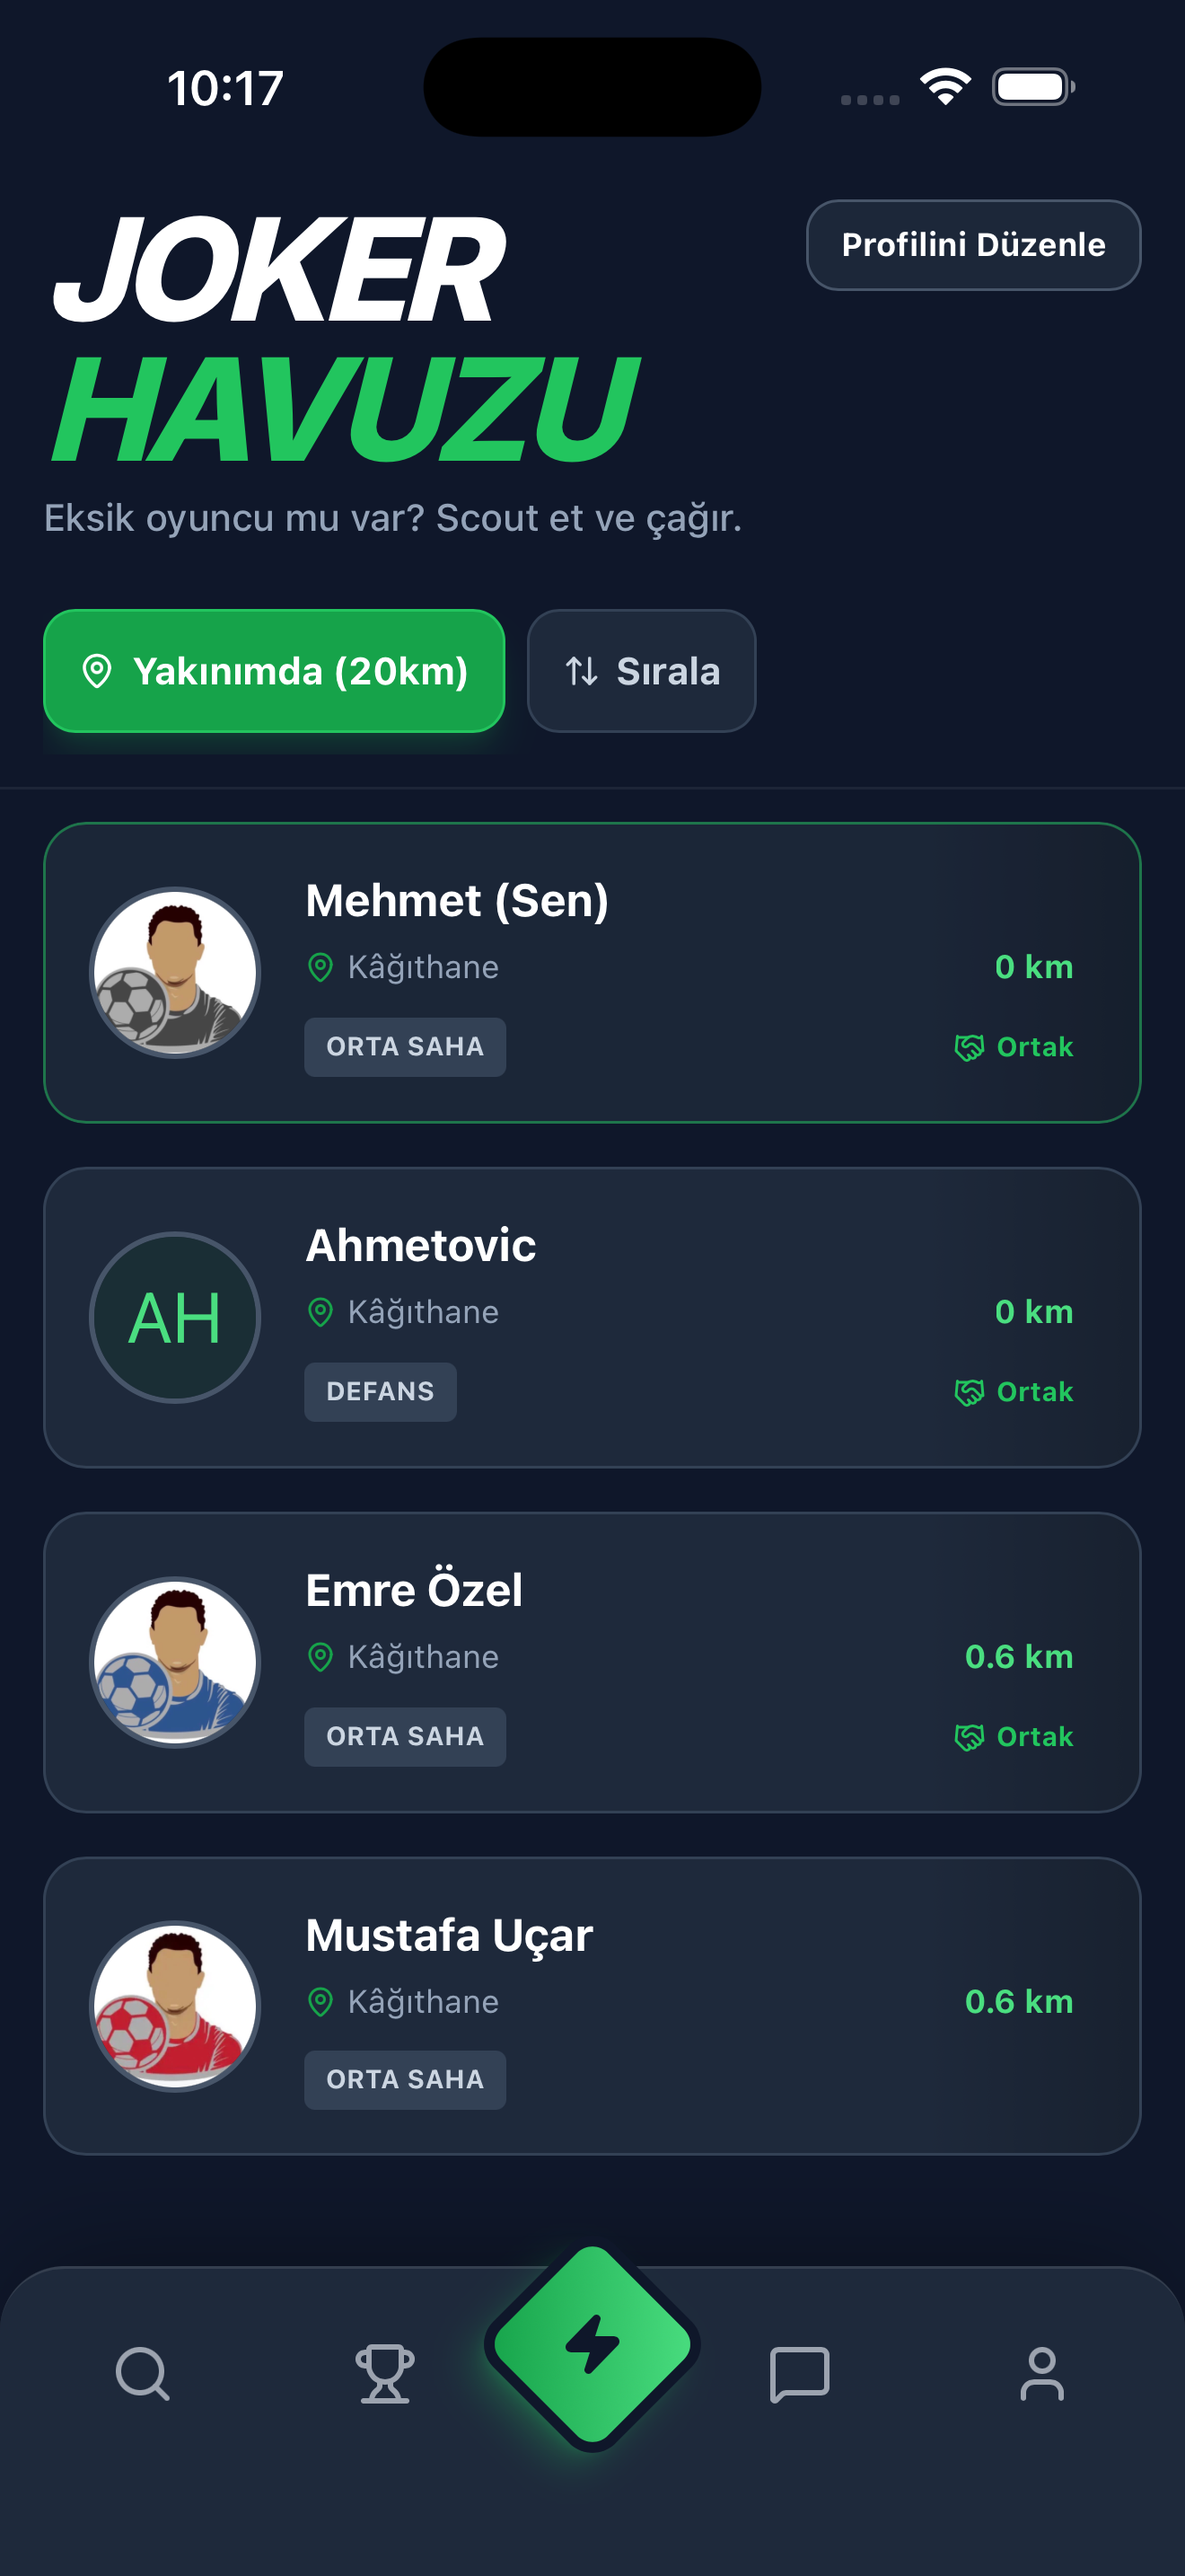
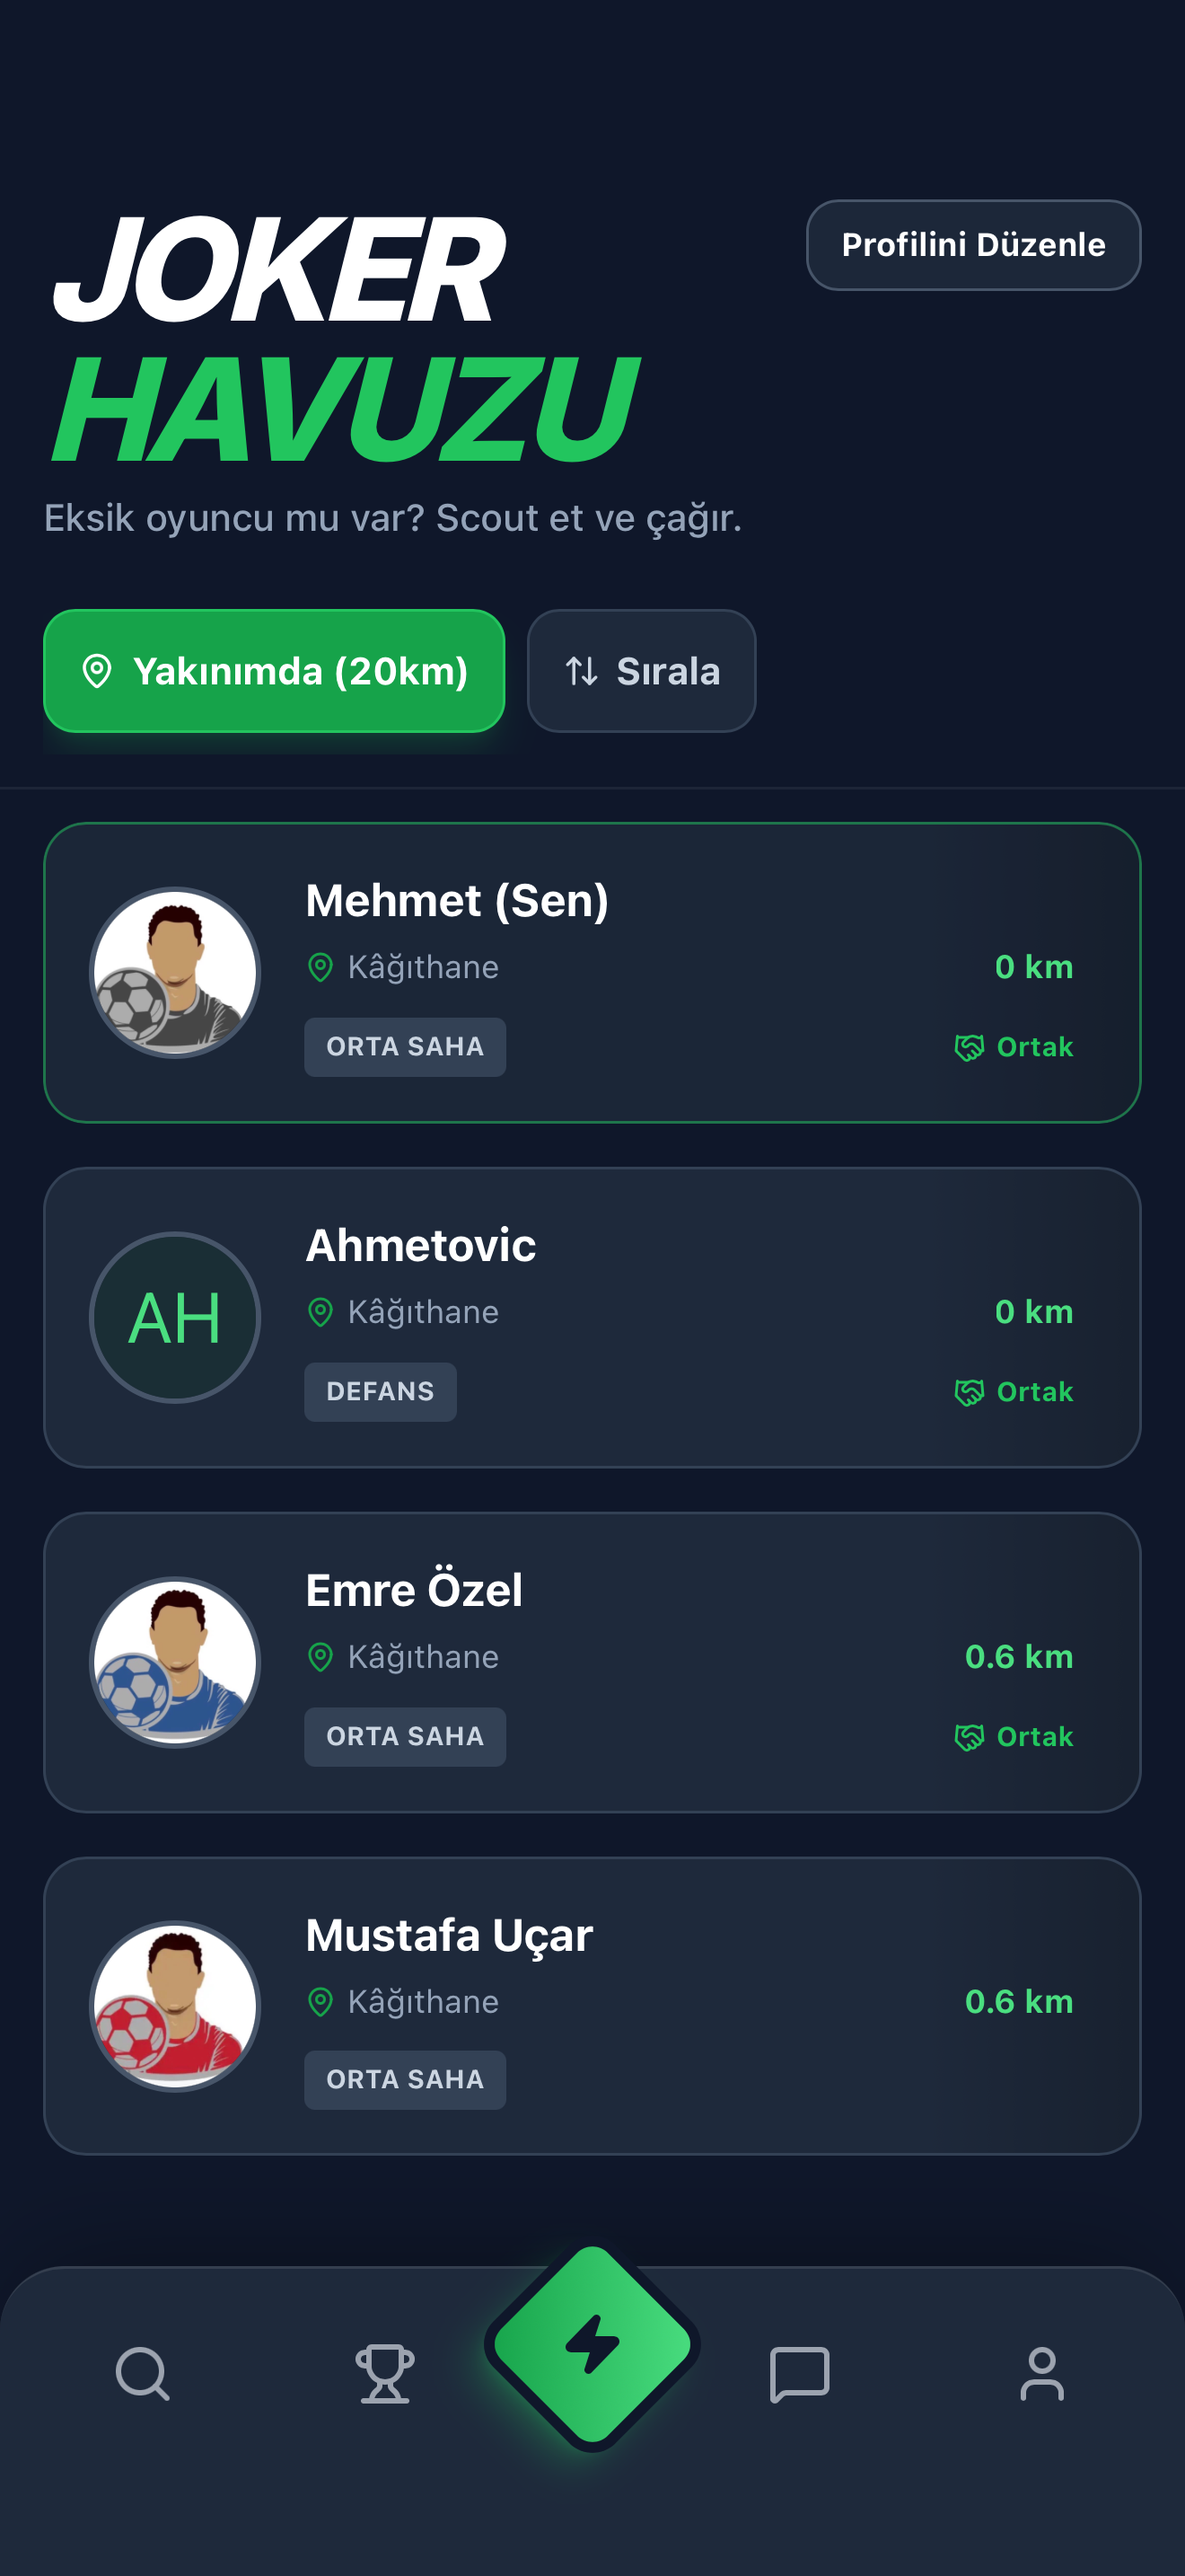
feat(web): oyuncu ekran görüntüleri yenilendi + durum çubuğu temiz, metin revizyonu
- Sahalar ekranı yeni UI; carousel'e Saha Detayı (Maç Pazarı modalı) eklendi
- İşletme puanlama / Fair Play değerlendirme ekranları yeni tasarımla değiştirildi
- Tüm kullanıcı görsellerinde iOS durum çubuğu (saat/pil/wifi) kaldırıldı
  (üst bant zemin rengiyle örtüldü; tam boy png + 640w webp yeniden üretildi)
- "Maç Duyuruları" → "Müsait Saatleri Anlık Gör" (+ canlı takvim açıklaması/kicker)
- "Takımınla Haberleş": her maça özel sohbet odası vurgusu

diff --git a/components/cinematic/playerContent.tsx b/components/cinematic/playerContent.tsx
@@ -7,9 +7,9 @@
 
 export const FEATURES = [
   {
-    title: "Maç Duyuruları",
+    title: "Müsait Saatleri Anlık Gör",
     description:
-      "Kendi maç duyurunu oluştur ya da yakınındaki takımların ilanlarını keşfet. Anlık meydan okuma sistemiyle rakip bul.",
+      "Sahanın boş ve dolu saatlerini canlı takvimde gör, uygun saati seç ve anında rezervasyon yap. Onay durumunu da aynı ekrandan takip et.",
     icon: (
       <svg className="w-7 h-7" fill="none" stroke="currentColor" viewBox="0 0 24 24">
         <path strokeLinecap="round" strokeLinejoin="round" strokeWidth={1.8} d="M8 7V3m8 4V3m-9 8h10M5 21h14a2 2 0 002-2V7a2 2 0 00-2-2H5a2 2 0 00-2 2v12a2 2 0 002 2z" />
@@ -84,7 +84,7 @@ export const STEPS = [
   {
     number: "04",
     title: "Takımınla Haberleş",
-    description: "Maç saatine kadar anlık gelişmeleri Chat kanalında paylaş. Onay, saat değişikliği, kadro — hepsi tek yerde.",
+    description: "Her maça özel sohbet odası: maç saatine kadar anlık gelişmeleri takımınla paylaş. Onay, saat değişikliği, kadro — hepsi tek yerde.",
     icon: (
       <svg className="w-5 h-5" fill="none" stroke="currentColor" viewBox="0 0 24 24" strokeWidth={2}>
         <path strokeLinecap="round" strokeLinejoin="round" d="M8 12h.01M12 12h.01M16 12h.01M21 12c0 4.418-4.03 8-9 8a9.863 9.863 0 01-4.255-.949L3 20l1.395-3.72C3.512 15.042 3 13.574 3 12c0-4.418 4.03-8 9-8s9 3.582 9 8z" />
@@ -120,6 +120,6 @@ export const SHOTS = {
   sohbet: { src: "/3d/tex/sohbet_kesinlesti.webp", alt: "Dimli takım sohbeti ekranı" },
   rakipIletisim: { src: "/3d/tex/rakiple_iletisim.webp", alt: "Dimli rakiple iletişim ekranı" },
   joker: { src: "/3d/tex/joker_havuzu.webp", alt: "Dimli joker havuzu ekranı" },
-  macDegerlendirme: { src: "/3d/tex/mac_degerlendirme.webp", alt: "Dimli maç değerlendirme ekranı" },
-  rakipDegerlendirme: { src: "/3d/tex/rakip_degerlendirme.webp", alt: "Dimli rakip değerlendirme ekranı" },
+  macDegerlendirme: { src: "/3d/tex/mac_degerlendirme.webp", alt: "Dimli işletme puanlama ekranı" },
+  rakipDegerlendirme: { src: "/3d/tex/rakip_degerlendirme.webp", alt: "Dimli fair play puanlama ekranı" },
 } as const;

diff --git a/components/PhoneCarousel.tsx b/components/PhoneCarousel.tsx
@@ -4,6 +4,7 @@ import Image from "next/image";
 
 const ITEMS = [
   { src: "/screenshots/sahalar.png",       label: "Saha Bul",           desc: "Konumuna yakın sahayı anında keşfet" },
+  { src: "/screenshots/saha_detay.png",    label: "Saha Detayı",        desc: "Ücret, adres ve imkanları tek ekranda gör" },
   { src: "/screenshots/rezervasyon.png",   label: "Rezervasyon",        desc: "Müsait saatleri gör, kolayca rezerve et" },
   { src: "/screenshots/joker_havuzu.png",  label: "Joker Havuzu",       desc: "Eksik oyuncu derdine son, joker bul" },
   { src: "/screenshots/sohbet_kesinlesti.png", label: "Takım Sohbeti",  desc: "Maç durumunu takımınla anlık paylaş" },

diff --git a/components/cinematic/PlayerExperience.tsx b/components/cinematic/PlayerExperience.tsx
@@ -142,7 +142,7 @@ export default function PlayerExperience() {
             {(p) => (
               <div className="flex flex-col sm:flex-row-reverse items-center gap-8 sm:gap-12">
                 <div>
-                  <Kicker>Rakip Bul</Kicker>
+                  <Kicker>Canlı Takvim</Kicker>
                   <h2 className="text-3xl sm:text-4xl font-black mb-4 [text-shadow:0_2px_20px_rgba(0,0,0,0.55)]">
                     {FEATURES[0].title}
                   </h2>
